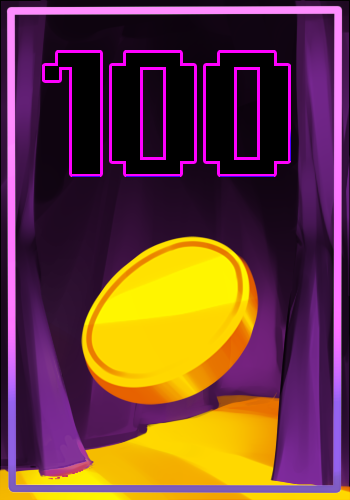
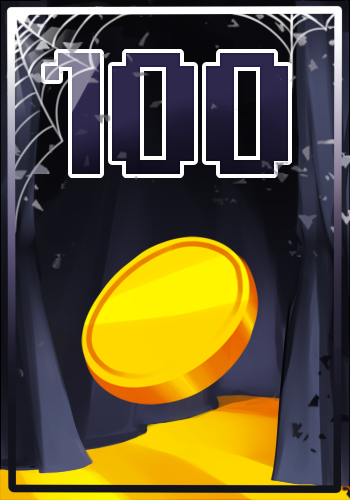
feat) 로또 코드 정리 + 이미지 변경
- 로또 코드 정리 + 이미지 변경

#20

diff --git a/src/page/Game/Components/Lotto.jsx b/src/page/Game/Components/Lotto.jsx
@@ -17,7 +17,7 @@ import memberAPI from 'API/v1/member';
 import MessageModal from 'shared/MessageModal';
 import actionMember from 'redux/action/member';
 
-const width = 350;
+const width = 350; //캔버스 크기
 const height = 500;
 const strokeWidth = 130; //브러쉬 굵기
 const completedAt = 70; //70% 이상 긁어야함
@@ -26,14 +26,15 @@ const Lotto = ({ member, gameInfo, updateInfo }) => {
   // ref
   const backgroundCanvasRef = useRef(null);
   const scratchCardCanvasRef = useRef(null);
-  const rankModalRef = useRef({});
 
   //modal
+  const alertShowResultModalRef = useRef({});
   const alertCountModalRef = useRef({});
   const alertBuyFirstModalRef = useRef({});
   const alertLoginModalRef = useRef({});
   const alertPointLackModalRef = useRef({});
 
+  //scratch
   const [isDrawing, setIsDrawing] = useState(false);
   const [startX, setStartX] = useState(0);
   const [startY, setStartY] = useState(0);
@@ -49,19 +50,33 @@ const Lotto = ({ member, gameInfo, updateInfo }) => {
   const [remainingCount, setRemainingCount] = useState();
   const [overCountCheck, setOverCountCheck] = useState(false);
 
-  const [completed, setCompleted] = useState(false);
-  //완료했는지 안했는지 bool값으로
-  const [progress, setProgress] = useState(0);
   //진행 과정 몇 %인지
-  const [isCompleted, setIsCompleted] = useState(false);
+  const [progress, setProgress] = useState(0);
   //alert창 한번만 띄우기 위해서
+  const [isCompleted, setIsCompleted] = useState(false);
 
-  const onCompleted = () => {
-    setCompleted(true);
-  };
-  const onProgress = (percent) => {
-    setProgress(percent);
-  };
+  //초기 캔버스 이미지 불러오기
+  useEffect(() => {
+    const scratchCardCanvas = scratchCardCanvasRef.current;
+    const scratchCardContext = scratchCardCanvas.getContext('2d');
+    const backgroundCanvas = backgroundCanvasRef.current;
+    const backgroundContext = backgroundCanvas.getContext('2d');
+
+    const scratchCardImage = new Image();
+
+    scratchCardImage.onload = function () {
+      scratchCardContext.drawImage(this, 0, 0);
+      scratchCardContext.globalCompositeOperation = 'destination-out';
+      scratchCardContext.lineWidth = strokeWidth;
+      backgroundImage.src = win6;
+    };
+
+    const backgroundImage = new Image();
+    backgroundImage.onload = function () {
+      backgroundContext.drawImage(this, 0, 0);
+    };
+    scratchCardImage.src = scratchCardImageSrc;
+  }, []);
 
   // 초기 정보 세팅
   useEffect(() => {
@@ -97,34 +112,32 @@ const Lotto = ({ member, gameInfo, updateInfo }) => {
       });
   }, [member]);
 
+  //복권 뽑기 버튼 누를시
   const backEnd = () => {
     //이미지 변경
     const backgroundCanvas = backgroundCanvasRef.current;
     const backgroundContext = backgroundCanvas.getContext('2d');
-
     const backgroundImage = new Image();
 
     backgroundImage.onload = function () {
       backgroundContext.drawImage(this, 0, 0);
     };
 
+    //로그인 안되어있을 경우
     if (member.token === '') {
       alertLoginModalRef.current.open();
       return;
     }
+    //포인트 부족할 경우
     if (member.memberInfo.point < gameInfo.ROULETTE_FEE) {
       alertPointLackModalRef.current.open();
       return;
     }
 
-    //false일경우 == 횟수가 1번을 안넘어갔음,
+    //게임시작
+    //횟수가 1번을 안넘어갔을 경우
     if (!overCountCheck) {
-      // 횟수 제한
-      //나중에 ! 추가해라..
       setIsPop(true);
-      //NOTE api 로또 게임 횟수 제한에서, 하루에 1번만 실행되도록 하는데,
-      // 실행해보니, 게임을 총 2번 할 수 있는 것 같습니다
-      //
 
       lottoAPI.playLotto({ token: member.token }).then((data) => {
         console.log('play', data);
@@ -166,28 +179,7 @@ const Lotto = ({ member, gameInfo, updateInfo }) => {
     }
   };
 
-  useEffect(() => {
-    const scratchCardCanvas = scratchCardCanvasRef.current;
-    const scratchCardContext = scratchCardCanvas.getContext('2d');
-    const backgroundCanvas = backgroundCanvasRef.current;
-    const backgroundContext = backgroundCanvas.getContext('2d');
-
-    const scratchCardImage = new Image();
-
-    scratchCardImage.onload = function () {
-      scratchCardContext.drawImage(this, 0, 0);
-      scratchCardContext.globalCompositeOperation = 'destination-out';
-      scratchCardContext.lineWidth = strokeWidth;
-      backgroundImage.src = win6;
-    };
-
-    const backgroundImage = new Image();
-    backgroundImage.onload = function () {
-      backgroundContext.drawImage(this, 0, 0);
-    };
-    scratchCardImage.src = scratchCardImageSrc;
-  }, []);
-
+  //스크래치 기능 관련 코드
   const scratchStart = ({ nativeEvent }) => {
     if (isPop) {
       const { layerX, layerY } = nativeEvent;
@@ -214,7 +206,6 @@ const Lotto = ({ member, gameInfo, updateInfo }) => {
 
   const scratch = ({ nativeEvent }) => {
     const { layerX, layerY } = nativeEvent;
-
     const context = scratchCardCanvasRef.current.getContext('2d');
 
     if (!isDrawing) {
@@ -234,14 +225,14 @@ const Lotto = ({ member, gameInfo, updateInfo }) => {
 
     const percent = getFilledInPixels(32);
     onProgress(percent);
-    //
+
+    // 스크래치 70%이상 긁었을때, 포인트 변동 + 오늘결과 보여주기
     if (percent >= completedAt && !isCompleted) {
       setIsCompleted(true);
-      onCompleted();
-      //setIsPop(false);
-      // alert(rank + ' 등 축하합니다!');
-      rankModalRef.current.open();
       setResult(point);
+      alertShowResultModalRef.current.open();
+
+      //보유포인트, 잔여횟수 업데이트 됨(useState)
       memberAPI
         .getMember({
           token: member.token,
@@ -258,6 +249,10 @@ const Lotto = ({ member, gameInfo, updateInfo }) => {
 
   const scratchEnd = () => {
     setIsDrawing(false);
+  };
+
+  const onProgress = (percent) => {
+    setProgress(percent);
   };
 
   const infos = [
@@ -339,13 +334,13 @@ const Lotto = ({ member, gameInfo, updateInfo }) => {
          
           ${
             !isPop
-              ? 'bg-gradient-to-r from-amber-400 via-red-800 to-black hover:bg-pointYellow dark:from-pink-300 dark:via-purple-400 dark:to-indigo-500 dark:border-4'
-              : 'bg-divisionGray dark:bg-darkPoint'
+              ? 'bg-gradient-to-r from-amber-400 via-red-800 to-black dark:from-darkPoint'
+              : 'bg-divisionGray'
           }`}
       >
         뽑기
       </button>
-      <MessageModal ref={rankModalRef}>
+      <MessageModal ref={alertShowResultModalRef}>
         {rank}등 입니다! {point.toLocaleString('ko-KR')}point를 획득하셨습니다.
       </MessageModal>
       <MessageModal ref={alertCountModalRef}>
